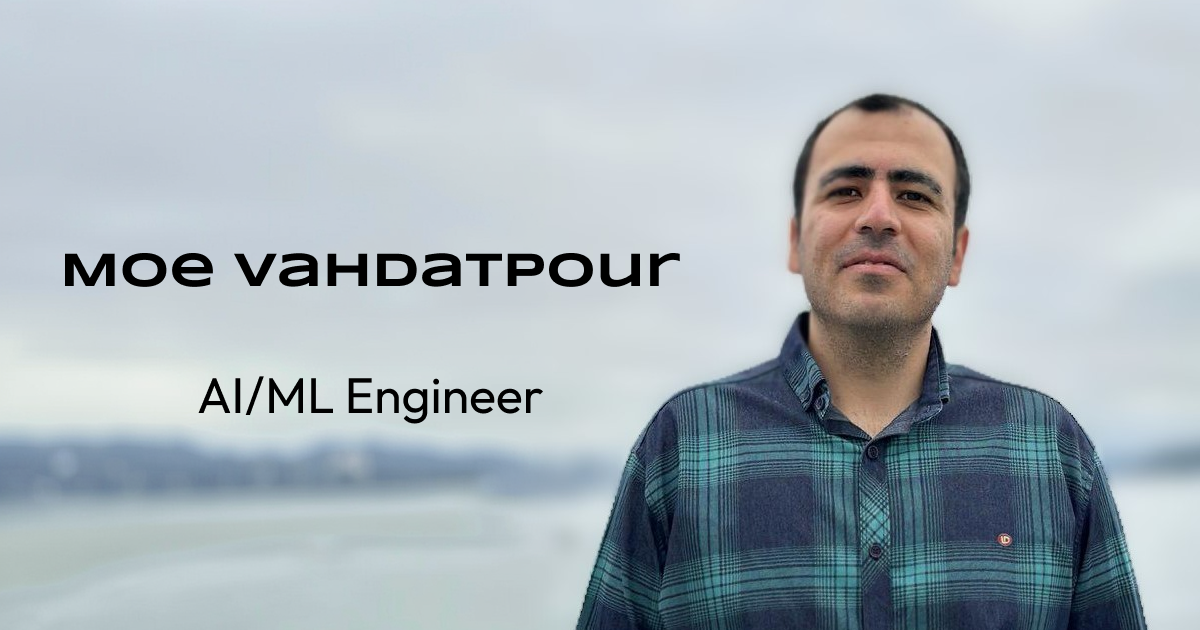
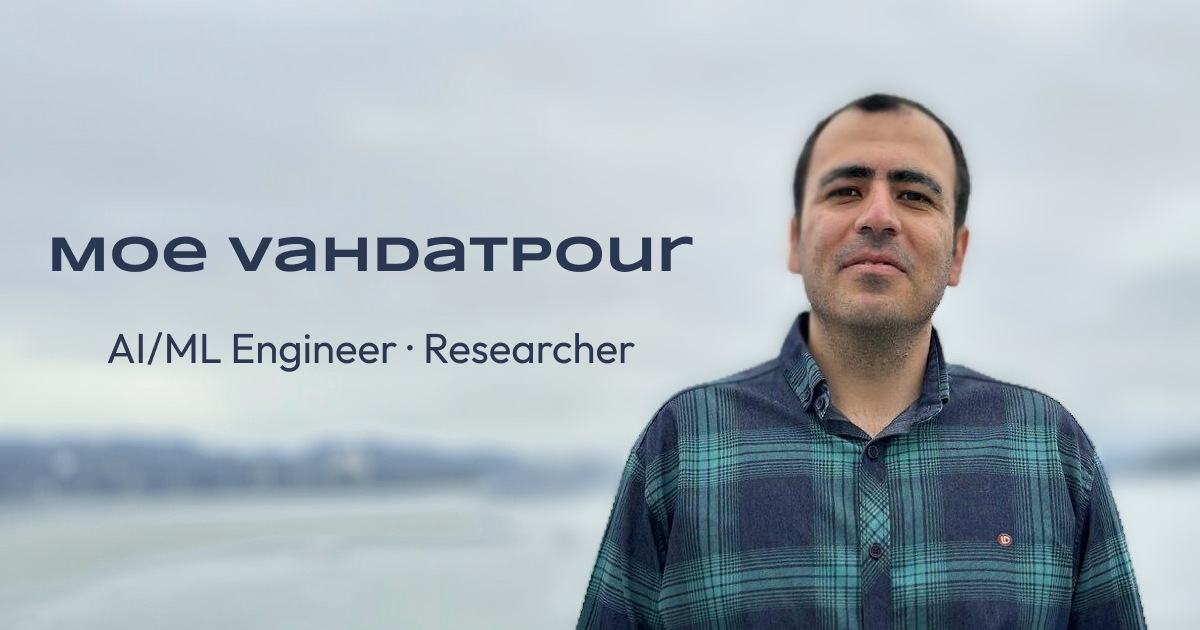
Update portfolio content, SEO

Changed region(s): [[0.0308, 0.3619, 0.5858, 0.4524], [0.0925, 0.5127, 0.5242, 0.6937]]

diff --git a/index.html b/index.html
@@ -5,14 +5,14 @@
 <meta name="viewport" content="width=device-width, initial-scale=1">
 <title>Moe Vahdatpour | AI/ML Engineer &amp; Researcher</title>
 
-<meta name="description" content="Moe Vahdatpour | AI/ML Engineer &amp; Researcher in Atlanta, GA. Computer vision, large language models, and energy efficient machine learning.">
+<meta name="description" content="Moe Vahdatpour | AI/ML Engineer &amp; Researcher in Atlanta, GA. Computer vision, large language models, and efficient AI.">
 <meta name="author" content="Moe Vahdatpour">
 <meta name="theme-color" content="#14131a">
 <link rel="canonical" href="https://moevahdatpour.github.io/">
 
 <meta property="og:type" content="website">
 <meta property="og:title" content="Moe Vahdatpour | AI/ML Engineer &amp; Researcher">
-<meta property="og:description" content="Computer vision, large language models, and energy efficient machine learning.">
+<meta property="og:description" content="AI/ML Engineer &amp; Researcher working on computer vision, LLMs, and efficient AI.">
 <meta property="og:url" content="https://moevahdatpour.github.io/">
 <meta property="og:image" content="https://moevahdatpour.github.io/images/ogmsv.png">
 <meta name="twitter:card" content="summary_large_image">
@@ -95,15 +95,18 @@
       </h1>
 
       <p class="hero__role rise" style="--i:3">
-        AI/ML Engineer <span class="sep" aria-hidden="true">·</span>
-        Researcher <span class="sep" aria-hidden="true">·</span>
-        Computer Vision <span class="sep" aria-hidden="true">·</span>
-        Environmental AI
+        <span class="hero__role-line">
+          AI/ML Engineer <span class="sep" aria-hidden="true">·</span> Researcher
+        </span>
+        <span class="hero__role-line">
+          Computer Vision <span class="sep" aria-hidden="true">·</span> LLMs <span class="sep" aria-hidden="true">·</span>
+          Efficient AI
+        </span>
       </p>
 
       <p class="hero__bio rise" style="--i:4">
-        I work on computer vision, large language models, and the problem of
-        making them cheaper to run.
+        I work on computer vision, large language models, and efficient AI systems,
+        with a focus on making intelligent systems faster, lighter, and cheaper to run.
       </p>
 
       <p class="hero__bio rise" style="--i:4">

diff --git a/css/styles.css b/css/styles.css
@@ -355,10 +355,7 @@ button {
 
 /* Role line — smaller than the name, set in the mono face like a caption. */
 .hero__role {
-  display: flex;
-  flex-wrap: wrap;
-  align-items: center;
-  gap: var(--s-2) var(--s-3);
+  display: block;
   font-family: var(--font-mono);
   font-size: var(--t-mono);
   letter-spacing: 0.11em;
@@ -366,7 +363,14 @@ button {
   color: var(--text-2);
   margin-bottom: var(--s-4);
 }
-.hero__role .sep { color: var(--iris); }
+
+.hero__role-line {
+  display: block;
+}
+
+.hero__role .sep {
+  color: var(--iris);
+}
 
 .hero__bio {
   max-width: 48ch;
